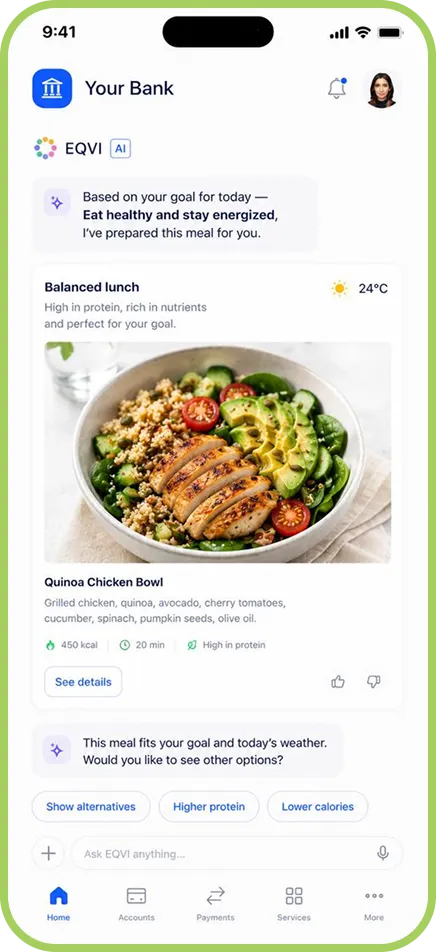
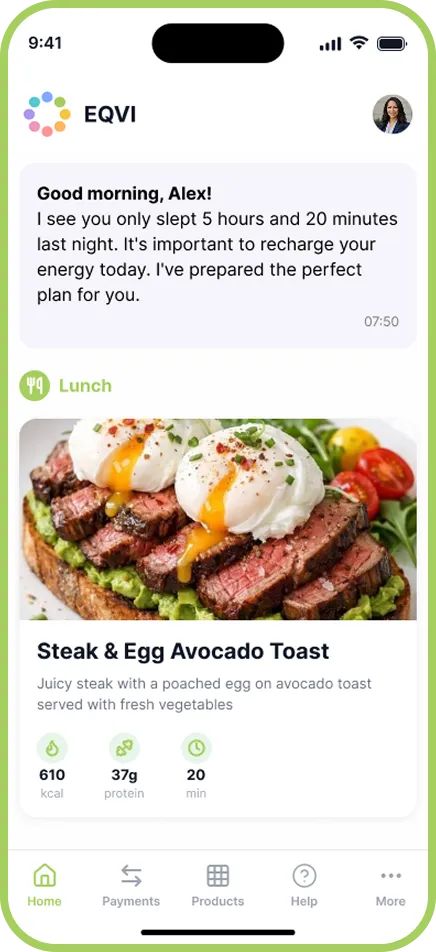
feat: Banking Integration

diff --git a/Assets/CSS/output.css b/Assets/CSS/output.css
@@ -204,9 +204,6 @@
   .top-0 {
     top: calc(var(--spacing) * 0);
   }
-  .top-1 {
-    top: calc(var(--spacing) * 1);
-  }
   .top-1\/2 {
     top: calc(1/2 * 100%);
   }
@@ -228,14 +225,8 @@
   .right-0 {
     right: calc(var(--spacing) * 0);
   }
-  .right-2 {
-    right: calc(var(--spacing) * 2);
-  }
   .right-2\.5 {
     right: calc(var(--spacing) * 2.5);
-  }
-  .right-3 {
-    right: calc(var(--spacing) * 3);
   }
   .right-3\.5 {
     right: calc(var(--spacing) * 3.5);
@@ -254,9 +245,6 @@
   }
   .left-0 {
     left: calc(var(--spacing) * 0);
-  }
-  .left-1 {
-    left: calc(var(--spacing) * 1);
   }
   .left-1\/2 {
     left: calc(1/2 * 100%);
@@ -311,9 +299,6 @@
   }
   .-mt-16 {
     margin-top: calc(var(--spacing) * -16);
-  }
-  .mt-0 {
-    margin-top: calc(var(--spacing) * 0);
   }
   .mt-0\.5 {
     margin-top: calc(var(--spacing) * 0.5);
@@ -389,9 +374,6 @@
   }
   .hidden {
     display: none;
-  }
-  .table {
-    display: table;
   }
   .aspect-9\/16 {
     aspect-ratio: 9/16;
@@ -540,14 +522,8 @@
   .min-h-\[30px\] {
     min-height: 30px;
   }
-  .w-0 {
-    width: calc(var(--spacing) * 0);
-  }
   .w-0\.5 {
     width: calc(var(--spacing) * 0.5);
-  }
-  .w-1 {
-    width: calc(var(--spacing) * 1);
   }
   .w-1\.5 {
     width: calc(var(--spacing) * 1.5);
@@ -819,31 +795,14 @@
   .max-w-\[1240px\] {
     max-width: 1240px;
   }
-  .flex-shrink {
-    flex-shrink: 1;
-  }
   .shrink-0 {
     flex-shrink: 0;
-  }
-  .flex-grow {
-    flex-grow: 1;
   }
   .grow {
     flex-grow: 1;
   }
-  .border-collapse {
-    border-collapse: collapse;
-  }
-  .-translate-x-1 {
-    --tw-translate-x: calc(var(--spacing) * -1);
-    translate: var(--tw-translate-x) var(--tw-translate-y);
-  }
   .-translate-x-1\/2 {
     --tw-translate-x: calc(calc(1/2 * 100%) * -1);
-    translate: var(--tw-translate-x) var(--tw-translate-y);
-  }
-  .-translate-y-1 {
-    --tw-translate-y: calc(var(--spacing) * -1);
     translate: var(--tw-translate-x) var(--tw-translate-y);
   }
   .-translate-y-1\/2 {
@@ -910,9 +869,6 @@
   }
   .justify-center {
     justify-content: center;
-  }
-  .gap-0 {
-    gap: calc(var(--spacing) * 0);
   }
   .gap-0\.5 {
     gap: calc(var(--spacing) * 0.5);
@@ -982,9 +938,6 @@
   }
   .gap-px {
     gap: 1px;
-  }
-  .gap-x-3 {
-    column-gap: calc(var(--spacing) * 3);
   }
   .gap-x-3\.5 {
     column-gap: calc(var(--spacing) * 3.5);
@@ -1127,9 +1080,6 @@
   }
   .border-black {
     border-color: var(--color-black);
-  }
-  .border-white {
-    border-color: var(--color-white);
   }
   .border-white\/5 {
     border-color: color-mix(in srgb, #fff 5%, transparent);
@@ -1283,9 +1233,6 @@
   }
   .bg-\[\#FFFFFF40\] {
     background-color: #FFFFFF40;
-  }
-  .bg-black {
-    background-color: var(--color-black);
   }
   .bg-black\/10 {
     background-color: color-mix(in srgb, #000 10%, transparent);
@@ -1466,9 +1413,6 @@
   }
   .pr-\[26px\] {
     padding-right: 26px;
-  }
-  .pb-3 {
-    padding-bottom: calc(var(--spacing) * 3);
   }
   .pb-3\.5 {
     padding-bottom: calc(var(--spacing) * 3.5);
@@ -1908,30 +1852,14 @@
     --tw-ring-shadow: var(--tw-ring-inset,) 0 0 0 calc(1px + var(--tw-ring-offset-width)) var(--tw-ring-color, currentcolor);
     box-shadow: var(--tw-inset-shadow), var(--tw-inset-ring-shadow), var(--tw-ring-offset-shadow), var(--tw-ring-shadow), var(--tw-shadow);
   }
-  .outline {
-    outline-style: var(--tw-outline-style);
-    outline-width: 1px;
-  }
   .grayscale {
     --tw-grayscale: grayscale(100%);
-    filter: var(--tw-blur,) var(--tw-brightness,) var(--tw-contrast,) var(--tw-grayscale,) var(--tw-hue-rotate,) var(--tw-invert,) var(--tw-saturate,) var(--tw-sepia,) var(--tw-drop-shadow,);
-  }
-  .filter {
     filter: var(--tw-blur,) var(--tw-brightness,) var(--tw-contrast,) var(--tw-grayscale,) var(--tw-hue-rotate,) var(--tw-invert,) var(--tw-saturate,) var(--tw-sepia,) var(--tw-drop-shadow,);
   }
   .backdrop-blur-xs {
     --tw-backdrop-blur: blur(var(--blur-xs));
     -webkit-backdrop-filter: var(--tw-backdrop-blur,) var(--tw-backdrop-brightness,) var(--tw-backdrop-contrast,) var(--tw-backdrop-grayscale,) var(--tw-backdrop-hue-rotate,) var(--tw-backdrop-invert,) var(--tw-backdrop-opacity,) var(--tw-backdrop-saturate,) var(--tw-backdrop-sepia,);
     backdrop-filter: var(--tw-backdrop-blur,) var(--tw-backdrop-brightness,) var(--tw-backdrop-contrast,) var(--tw-backdrop-grayscale,) var(--tw-backdrop-hue-rotate,) var(--tw-backdrop-invert,) var(--tw-backdrop-opacity,) var(--tw-backdrop-saturate,) var(--tw-backdrop-sepia,);
-  }
-  .backdrop-filter {
-    -webkit-backdrop-filter: var(--tw-backdrop-blur,) var(--tw-backdrop-brightness,) var(--tw-backdrop-contrast,) var(--tw-backdrop-grayscale,) var(--tw-backdrop-hue-rotate,) var(--tw-backdrop-invert,) var(--tw-backdrop-opacity,) var(--tw-backdrop-saturate,) var(--tw-backdrop-sepia,);
-    backdrop-filter: var(--tw-backdrop-blur,) var(--tw-backdrop-brightness,) var(--tw-backdrop-contrast,) var(--tw-backdrop-grayscale,) var(--tw-backdrop-hue-rotate,) var(--tw-backdrop-invert,) var(--tw-backdrop-opacity,) var(--tw-backdrop-saturate,) var(--tw-backdrop-sepia,);
-  }
-  .transition {
-    transition-property: color, background-color, border-color, outline-color, text-decoration-color, fill, stroke, --tw-gradient-from, --tw-gradient-via, --tw-gradient-to, opacity, box-shadow, transform, translate, scale, rotate, filter, -webkit-backdrop-filter, backdrop-filter, display, content-visibility, overlay, pointer-events;
-    transition-timing-function: var(--tw-ease, var(--default-transition-timing-function));
-    transition-duration: var(--tw-duration, var(--default-transition-duration));
   }
   .transition-all {
     transition-property: all;
@@ -3835,11 +3763,6 @@
   inherits: false;
   initial-value: 0 0 #0000;
 }
-@property --tw-outline-style {
-  syntax: "*";
-  inherits: false;
-  initial-value: solid;
-}
 @property --tw-blur {
   syntax: "*";
   inherits: false;
@@ -3974,7 +3897,6 @@
       --tw-ring-offset-width: 0px;
       --tw-ring-offset-color: #fff;
       --tw-ring-offset-shadow: 0 0 #0000;
-      --tw-outline-style: solid;
       --tw-blur: initial;
       --tw-brightness: initial;
       --tw-contrast: initial;

diff --git a/en/new_page2.html b/en/new_page2.html
@@ -100,7 +100,7 @@
                                             <div class="w-full h-1 rounded-full bg-[#E5E7EB]">
                                                 <div class="w-2/5 h-full bg-[#A5CF5F]"></div>
                                             </div>
-                                            <p class="text-[12px] leading-[100%] text-[#A1A1AA]">20 из 50 nutrition parameters identified</p>
+                                            <p class="text-[12px] leading-[100%] text-[#A1A1AA]">20 of 50 nutrition parameters identified</p>
                                         </div>
                                     </div>
                                     <img src="../Assets/Images/new_page2/slider/2.webp" alt="" class="w-full">
@@ -116,7 +116,7 @@
                                             <div class="w-full h-1 rounded-full bg-[#E5E7EB]">
                                                 <div class="w-[30%] h-full bg-[#F05EAD]"></div>
                                             </div>
-                                            <p class="text-[12px] leading-[100%] text-[#A1A1AA]">15 из 50 fashion parameters identified</p>
+                                            <p class="text-[12px] leading-[100%] text-[#A1A1AA]">15 of 50 fashion parameters identified</p>
                                         </div>
                                     </div>
                                     <img src="../Assets/Images/new_page2/slider/3.webp" alt="" class="w-full">